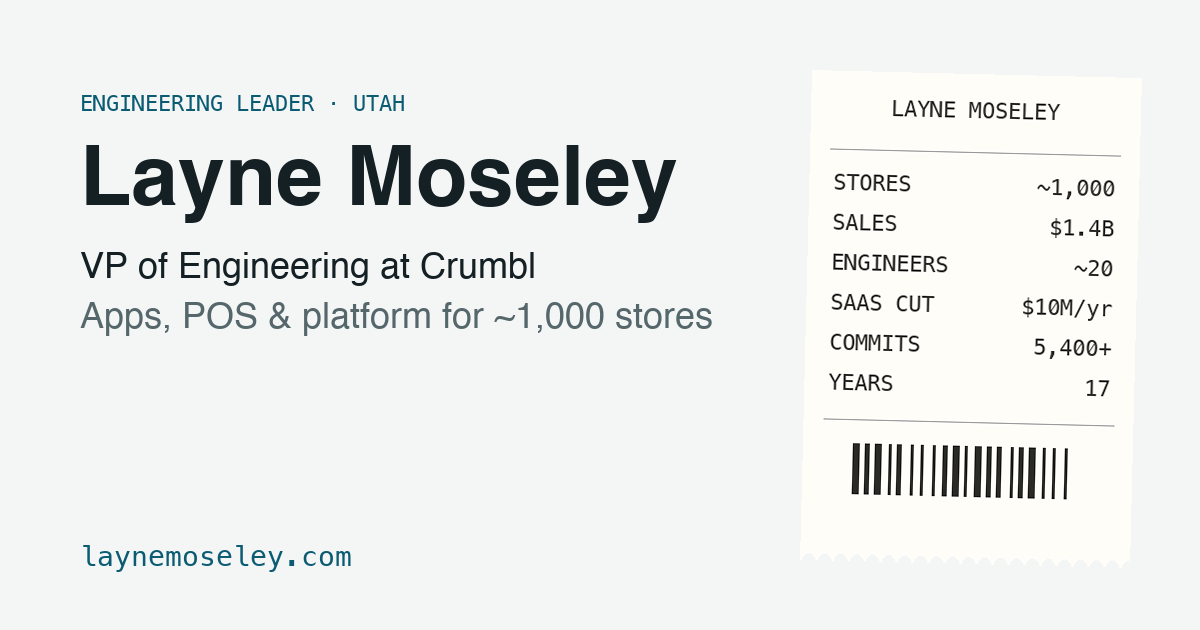
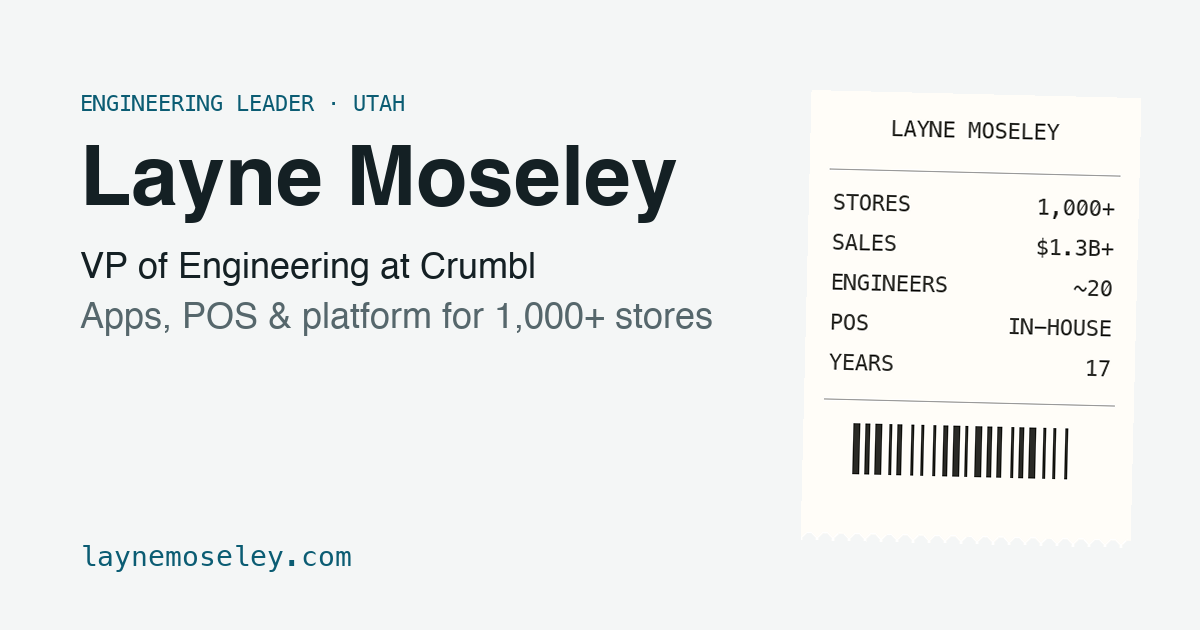
Use public figures, LinkedIn dates; drop internal numbers

diff --git a/index.html b/index.html
@@ -8,13 +8,13 @@
 <meta property="og:type" content="profile">
 <meta property="og:url" content="https://laynemoseley.com/">
 <meta property="og:title" content="Layne Moseley, VP of Engineering at Crumbl">
-<meta property="og:description" content="Engineering leader behind the apps, point-of-sale system, and platform for ~1,000 stores and $1.4B in annual sales.">
+<meta property="og:description" content="Engineering leader behind the apps, point-of-sale system, and platform for 1,000+ stores and $1.3B+ in annual sales.">
 <meta property="og:image" content="https://laynemoseley.com/og.png">
 <meta property="og:image:width" content="1200">
 <meta property="og:image:height" content="630">
 <meta name="twitter:card" content="summary_large_image">
 <title>Layne Moseley</title>
-<meta name="description" content="Layne Moseley, VP of Engineering at Crumbl. Engineering leader for point-of-sale, mobile apps, and AWS platforms behind ~1,000 stores and $1.4B in annual sales.">
+<meta name="description" content="Layne Moseley, VP of Engineering at Crumbl. Engineering leader for point-of-sale, mobile apps, and AWS platforms behind 1,000+ stores and $1.3B+ in annual sales.">
 <link rel="preconnect" href="https://fonts.googleapis.com">
 <link rel="preconnect" href="https://fonts.gstatic.com" crossorigin>
 <link rel="stylesheet" href="https://fonts.googleapis.com/css2?family=Bricolage+Grotesque:opsz,wght@12..96,500;12..96,700&family=IBM+Plex+Sans:wght@400;500;600&family=IBM+Plex+Mono:wght@400;500&display=swap">
@@ -217,8 +217,8 @@ footer .wrap { display: flex; flex-wrap: wrap; justify-content: space-between; g
   <div>
     <p class="eyebrow">Engineering leader · Utah</p>
     <h1>Layne Moseley</h1>
-    <p class="role">VP of Engineering at Crumbl. I build and run the software behind about 1,000 stores.</p>
-    <p class="lede">17 years shipping consumer apps and the platforms behind them. At Crumbl I helped grow the business from 30 stores to about 1,000 and $1.4B in annual sales, built its custom point-of-sale system, and now lead all of engineering. Before that: CTO of i.TV, iOS at Snap, and an Apple WWDC Scholar.</p>
+    <p class="role">VP of Engineering at Crumbl. I build and run the software behind 1,000+ stores.</p>
+    <p class="lede">17 years shipping consumer apps and the platforms behind them. At Crumbl I helped grow the business from 30 stores to 1,000+ and $1.3B+ in annual sales, built its custom point-of-sale system, and now lead the engineering team. Before that: CTO of i.TV, iOS at Snap, and an Apple WWDC Scholar.</p>
     <div class="contact">
       <span class="email"><span id="email-text">hi@laynemoseley.com</span><button type="button" id="copy-email">Copy</button></span>
       <a href="https://www.linkedin.com/in/laynemoseley/" target="_blank" rel="noopener">LinkedIn</a>
@@ -234,11 +234,10 @@ footer .wrap { display: flex; flex-wrap: wrap; justify-content: space-between; g
     </div>
     <hr class="sep">
     <dl>
-      <dt>Stores served</dt><dd>~1,000</dd>
-      <dt>Annual sales</dt><dd>$1.4B</dd>
+      <dt>Stores served</dt><dd>1,000+</dd>
+      <dt>Annual sales</dt><dd>$1.3B+</dd>
       <dt>Engineers led</dt><dd>~20</dd>
-      <dt>SaaS spend cut</dt><dd>$10M/yr</dd>
-      <dt>Commits (top)</dt><dd>5,400+</dd>
+      <dt>Years at Crumbl</dt><dd>7</dd>
       <dt>Years shipping</dt><dd>17</dd>
     </dl>
     <hr class="sep">
@@ -263,9 +262,9 @@ footer .wrap { display: flex; flex-wrap: wrap; justify-content: space-between; g
           <div class="position">
             <div class="position-head"><h4>VP of Engineering</h4><span class="dates">Aug 2026 – Present</span></div>
             <ul>
-              <li>Lead all of Crumbl engineering (customer mobile apps, in-store POS, web, and platform) with a team of <span class="num">~20 engineers</span>.</li>
-              <li>Cut <span class="num">~$10M per year</span> in SaaS spend in 2026 by replacing third-party software with tools built in-house.</li>
-              <li>Run engineering on process and accountability while staying hands-on: <span class="num">1,400+ commits</span> in 2026.</li>
+              <li>Lead Crumbl's engineering team of <span class="num">~20 engineers</span> across customer mobile apps, in-store POS, web, and platform.</li>
+              <li>Cut millions in annual SaaS spend in 2026 by replacing third-party software with tools built in-house.</li>
+              <li>Run engineering on process and accountability while staying hands-on in the code.</li>
             </ul>
           </div>
 
@@ -273,7 +272,7 @@ footer .wrap { display: flex; flex-wrap: wrap; justify-content: space-between; g
             <div class="position-head"><h4>Director of Engineering, Customer Apps</h4><span class="dates">Nov 2023 – Aug 2026</span></div>
             <ul>
               <li>Owned all customer-facing technology: the Crumbl iOS and Android apps and the in-store point-of-sale system.</li>
-              <li>Kept Crumbl's fully custom POS running in every store for years at <span class="num">~1,000 locations</span> and a <span class="num">$1.4B</span> annual sales peak.</li>
+              <li>Kept Crumbl's fully custom POS running in every store for years at <span class="num">1,000+ locations</span> and <span class="num">$1.3B+</span> in annual sales.</li>
               <li>Took the platform to Mexico: a dedicated AWS region, peso pricing, and CFDI electronic tax invoicing.</li>
             </ul>
           </div>
@@ -293,7 +292,7 @@ footer .wrap { display: flex; flex-wrap: wrap; justify-content: space-between; g
         <article class="company">
           <div class="company-name"><h3>Radiant</h3><span class="place">Salt Lake City</span></div>
           <div class="position">
-            <div class="position-head"><h4>Systems Architect</h4><span class="dates">Feb 2019 – Oct 2019</span></div>
+            <div class="position-head"><h4>Systems Architect</h4><span class="dates">Jan 2019 – Oct 2019</span></div>
             <ul><li>Sole backend architect for a video social app: AWS serverless architecture, data modeling, testing, and CI/CD.</li></ul>
           </div>
         </article>
@@ -301,7 +300,7 @@ footer .wrap { display: flex; flex-wrap: wrap; justify-content: space-between; g
         <article class="company">
           <div class="company-name"><h3>Snap Inc.</h3><span class="place">Lehi, Utah</span></div>
           <div class="position">
-            <div class="position-head"><h4>iOS Engineer, Camera Foundations</h4><span class="dates">Sep 2018 – Feb 2019</span></div>
+            <div class="position-head"><h4>iOS Engineer, Camera Foundations</h4><span class="dates">Sep 2018 – Jan 2019</span></div>
             <ul><li>Worked on Snapchat's iOS app startup, camera integration, open-to-camera performance metrics, and the camera layer every other team built on.</li></ul>
           </div>
         </article>
@@ -336,7 +335,7 @@ footer .wrap { display: flex; flex-wrap: wrap; justify-content: space-between; g
         <article class="company">
           <div class="company-name"><h3>i.TV</h3><span class="place">Provo, Utah</span></div>
           <div class="position">
-            <div class="position-head"><h4>Chief Technology Officer</h4><span class="dates">Apr 2012 – Nov 2014</span></div>
+            <div class="position-head"><h4>Chief Technology Officer</h4><span class="dates">Apr 2012 – Dec 2014</span></div>
             <ul>
               <li>Elected CTO by peers after joining as an iOS engineer. Launched Nintendo TVii (co-created with Nintendo), DIRECTV CoPilot, and tvtag.</li>
               <li>Led engineering integration after acquiring GetGlue (<span class="num">4.5M+</span> registered users), meeting a <span class="num">90%</span> operating-expense reduction target with no loss of service.</li>
